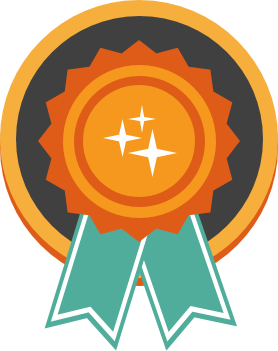
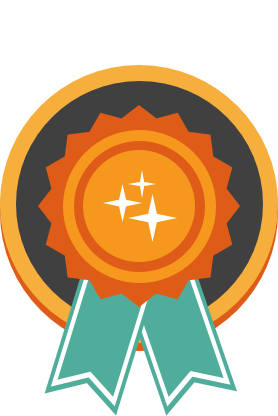
added badges, moved points and streaks

diff --git a/pages/index.js b/pages/index.js
@@ -13,6 +13,12 @@ import { getUserById, mapUserData } from "./api/user/[id]";
 import styles from "../styles/Home.module.css";
 import isUserLoggedIn from "../utils/is-user-logged-in";
 import { ColumnGrid } from "../components/content/ColumnGrid";
+import { Badge } from "../components/content/Badge";
+import badge1 from "../images/gamification_icons/badge1.png";
+import badge2 from "../images/gamification_icons/badge2.png";
+import badge3 from "../images/gamification_icons/badge3.png";
+import badge4 from "../images/gamification_icons/badge4.png";
+import { ScoreNumber } from "../components/content/ScoreNumber";
 
 export default function Home({ userData }) {
   const [user, setUser] = useUserContext();
@@ -28,21 +34,27 @@ export default function Home({ userData }) {
         <ColumnGrid width={100} smWidth={33} lgWidth={20}>
           <Block>
             <p className={styles.sub_title}>Badges</p>
-          </Block>
-
-          <Block>
-            <p className={styles.sub_title}>Opdracht Streaks</p>
-            <p>{user?.AssignmentStreak}</p>
-          </Block>
-
-          <Block>
-            <p className={styles.sub_title}>Login Streaks</p>
-            <p>{user?.LoginStreak}</p>
+            <div className={styles.badgeGrid}>
+              <Badge image={badge1} />
+              <Badge image={badge2} />
+              <Badge image={badge3} />
+              <Badge image={badge4} />
+            </div>
           </Block>
 
           <Block>
             <p className={styles.sub_title}>Punten</p>
-            <p>{user?.Points}</p>
+            <ScoreNumber score={user?.Points} unit={""}></ScoreNumber>
+          </Block>
+
+          <Block>
+            <p className={styles.sub_title}>Opdracht Streak</p>
+            <ScoreNumber score={user?.AssignmentStreak} unit={""}></ScoreNumber>
+          </Block>
+
+          <Block>
+            <p className={styles.sub_title}>Login Streak</p>
+            <ScoreNumber score={user?.LoginStreak} unit={"weken"}></ScoreNumber>
           </Block>
         </ColumnGrid>
 

diff --git a/components/content/ScoreNumber.js b/components/content/ScoreNumber.js
@@ -1,0 +1,10 @@
+import styles from "../../styles/components/content/gameObjects/ScoreNumber.module.css";
+
+export function ScoreNumber({ score, unit }) {
+  return (
+    <div className={styles.scorenumberDiv}>
+      <p className={styles.scorenumberContent}>{score}</p>
+      <p className={styles.scorenumberUnit}>{unit}</p>
+    </div>
+  );
+}

diff --git a/components/content/Badge.js b/components/content/Badge.js
@@ -1,0 +1,9 @@
+import Image from "next/image";
+import styles from "../../styles/components/content/gameObjects/Badge.module.css";
+export function Badge({ image }) {
+  return (
+    <div className={styles.badge}>
+      <Image className={styles.badge_image} src={image} fill alt="badge" />
+    </div>
+  );
+}

diff --git a/styles/components/content/gameObjects/ScoreNumber.module.css b/styles/components/content/gameObjects/ScoreNumber.module.css
@@ -1,0 +1,18 @@
+.scorenumberDiv {
+  text-align: center;
+  font-size: xx-large;
+  font-weight: bold;
+  margin-bottom: 10px;
+  padding-bottom: 40px;
+}
+
+.scorenumberContent {
+  margin: 0;
+  padding: 10px 0px 10px;
+}
+
+.scorenumberUnit {
+  font-size: medium;
+  margin: 0;
+  padding: 0;
+}

diff --git a/styles/Home.module.css b/styles/Home.module.css
@@ -21,3 +21,9 @@
 .assignments_list li {
   padding: 10px 5px;
 }
+
+.badgeGrid {
+  display: grid;
+  grid-template-columns: auto auto auto auto;
+  gap: 5%;
+}

diff --git a/styles/components/content/gameObjects/Badge.module.css b/styles/components/content/gameObjects/Badge.module.css
@@ -1,4 +1,8 @@
-.Badge {
-  width: 100px;
-  height: 100px;
+.badge {
+  height: 40px;
+  position: relative;
+}
+
+.badge_image {
+  object-fit: contain;
 }
